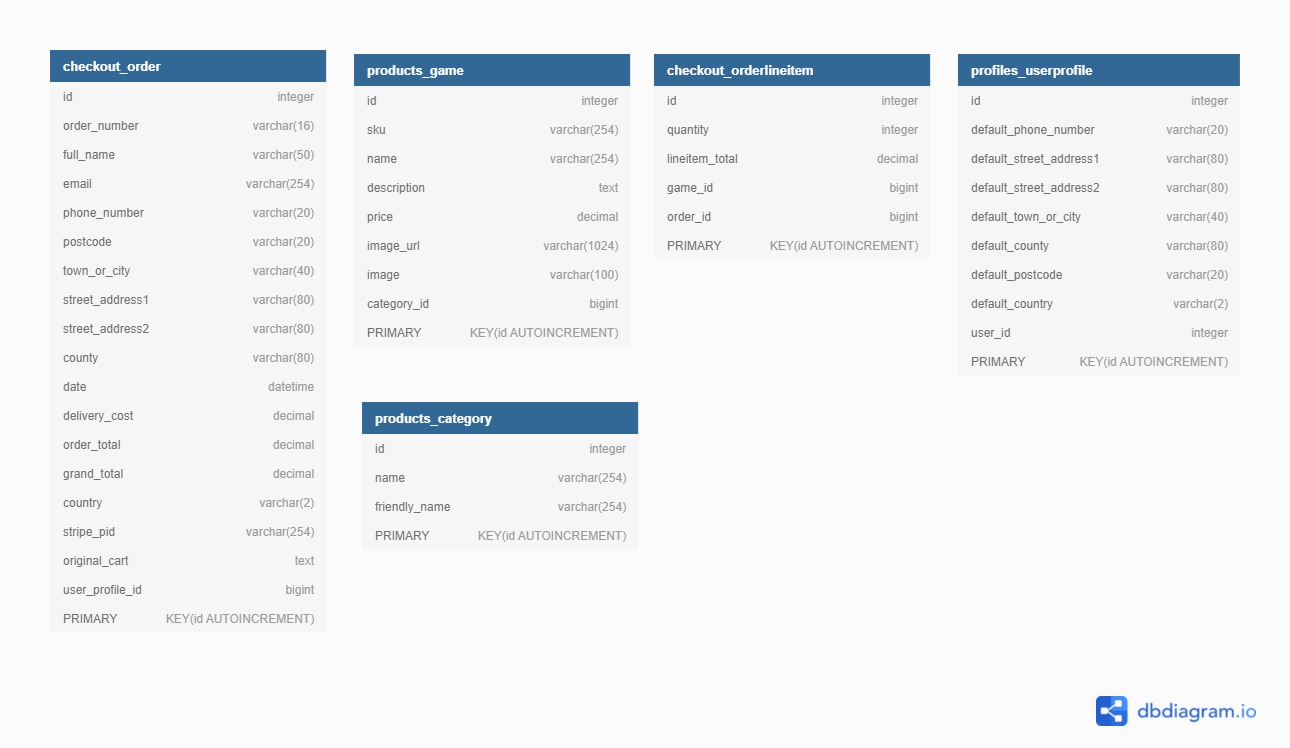
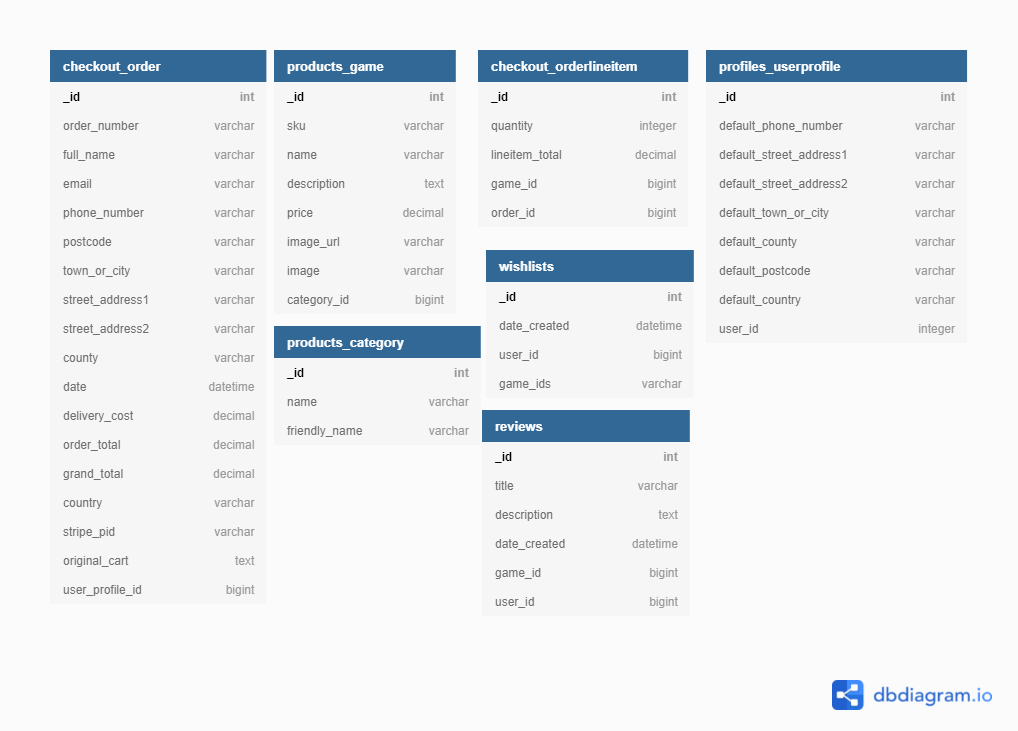
Added review and wishlist to the README User Stories

diff --git a/README.md b/README.md
@@ -59,6 +59,15 @@ Gamers Corner, An e-commerce website were a user can search for and purchase gam
        4. Purchase the products in the cart.
        5. Sent confirmation email of a purchase / order.
 
+ -   ### Review Goals
+       1. Add a review to a game.
+       2. Update / Edit a review on a game, Admin can Edit all reviews, Logged in users can Edit only their reviews.
+       3. Remove a review on a game, Admin can Remove all reviews, Logged in users can Remove only their reviews.
+
+ -   ### Wishlist Goals
+       1. Add a game to a Wishlist.
+       3. Remove a game from Wishlist, Logged in users can Remove only games from their Wishlist.
+
 # Design
 ## Strategy Plane
 Gamers Corner aims to provide users the ability to purchase games and track order history through a profile page

diff --git a/TESTING.md b/TESTING.md
@@ -88,3 +88,12 @@
 
        6. Sent confirmation email of a purchase / order.<br>
             ![Checkout Page](readme_images/confirmation_email.png)
+
+ -   ### Review Goals
+       1. Add a review to a game.
+       2. Update / Edit a review on a game, Admin can Edit all reviews, Logged in users can Edit only their reviews.
+       3. Remove a review on a game, Admin can Remove all reviews, Logged in users can Remove only their reviews.
+
+ -   ### Wishlist Goals
+       1. Add a game to a Wishlist.
+       3. Remove a game from Wishlist, Logged in users can Remove only games from their Wishlist.
